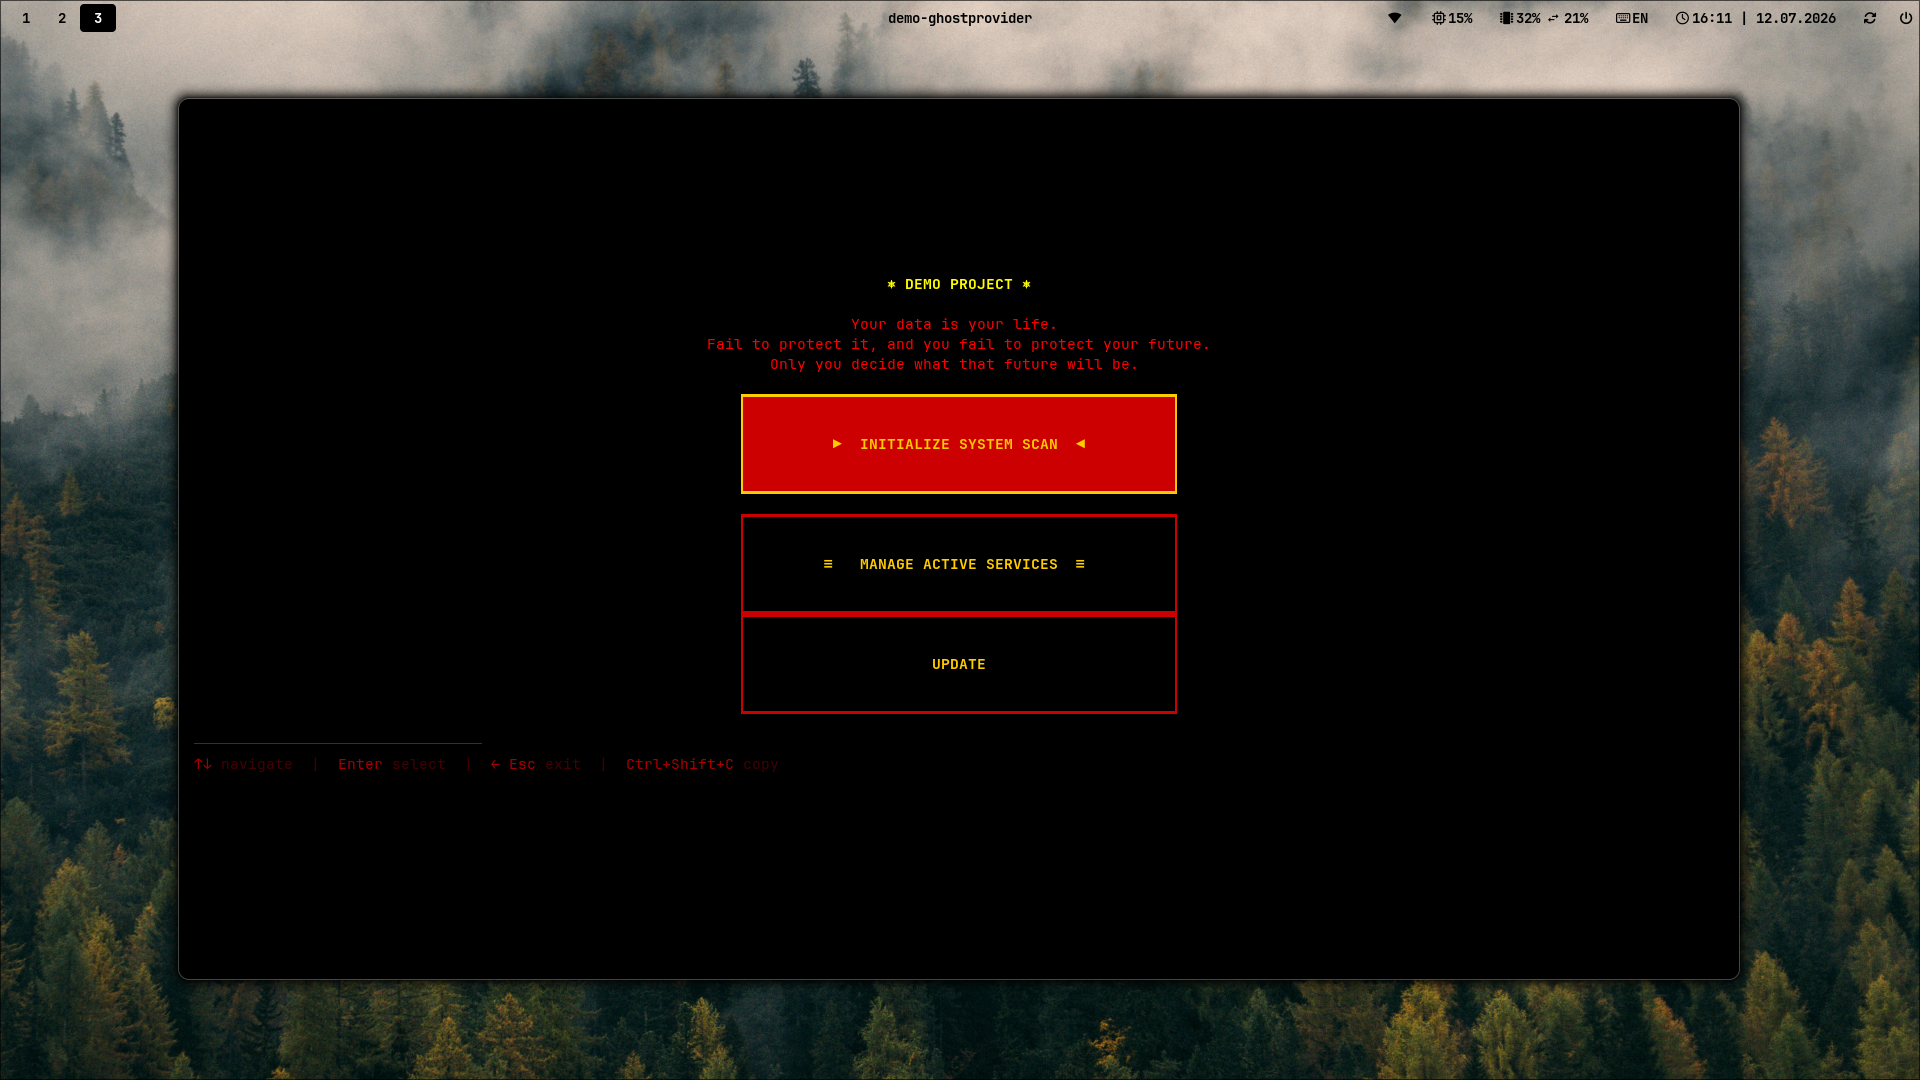
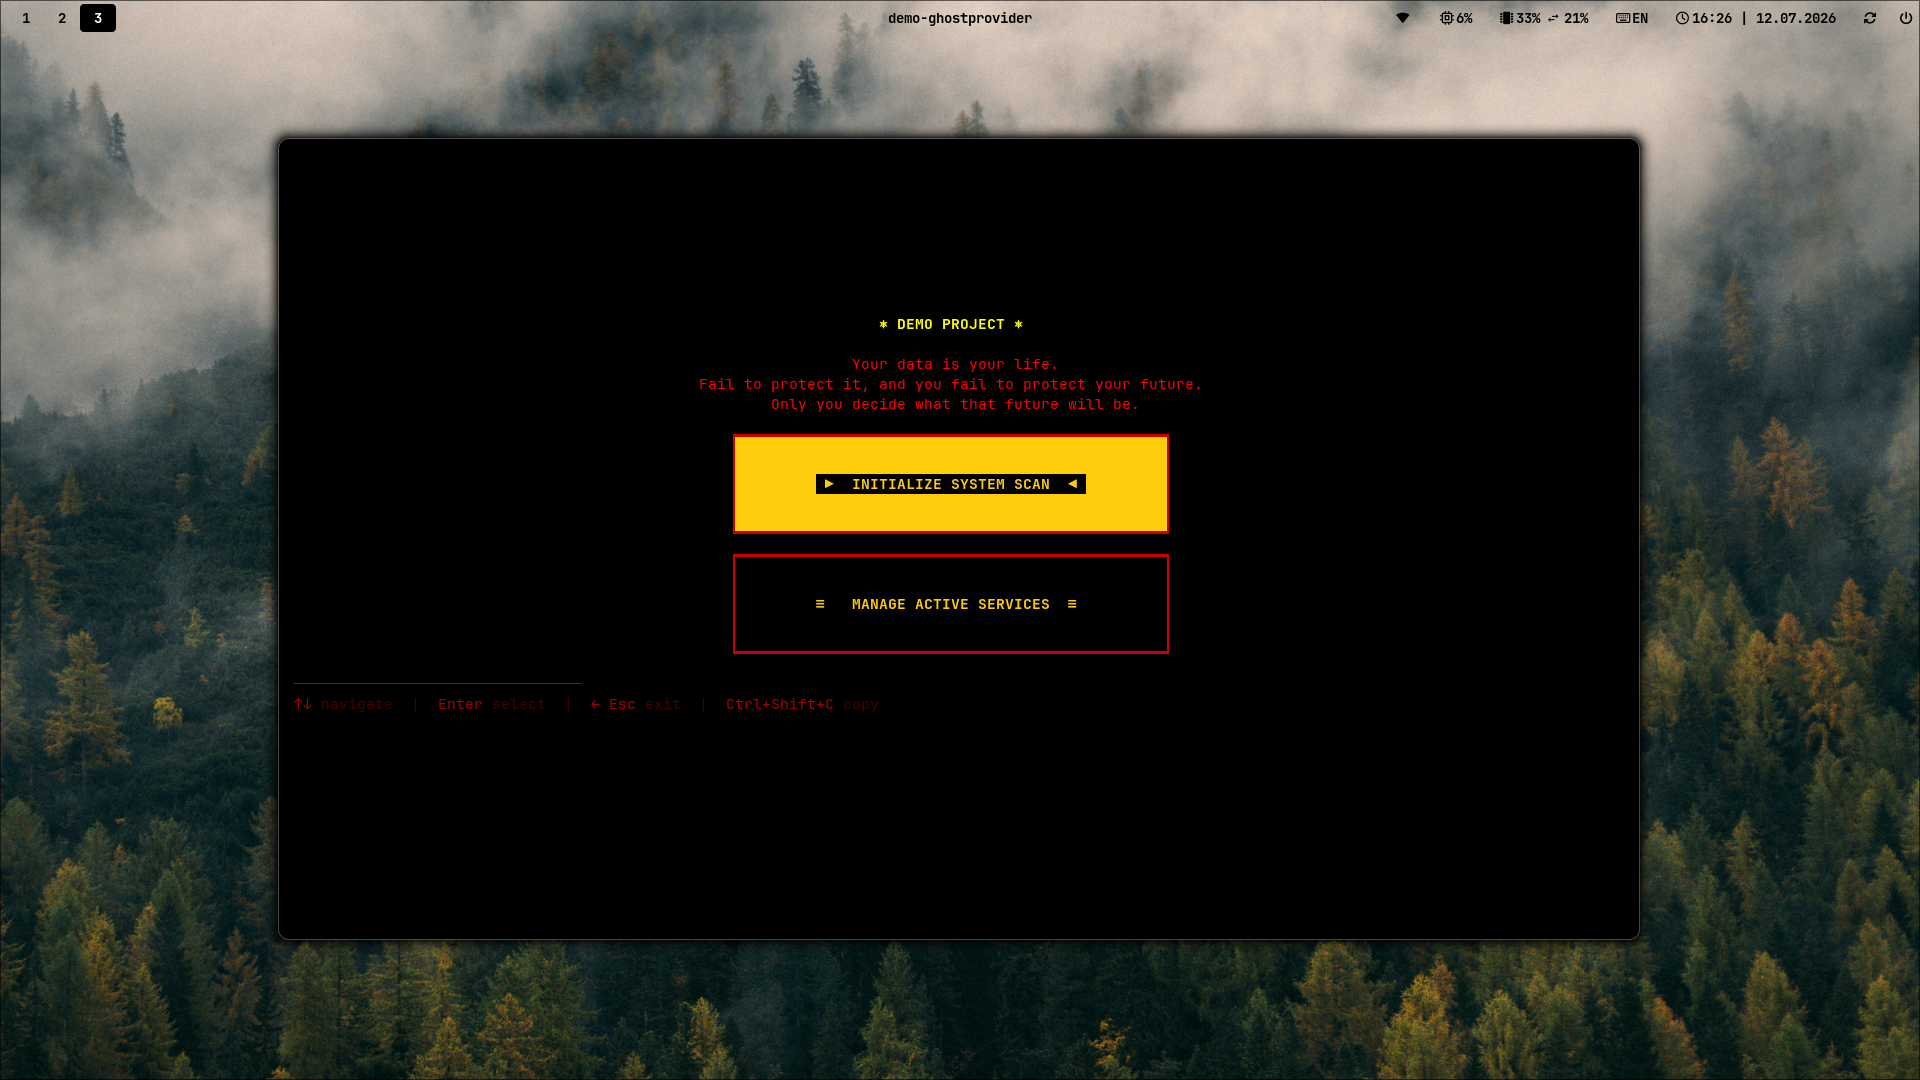
Update screenshot

diff --git a/build/lib/demo_ghostprovider/screens.py b/build/lib/demo_ghostprovider/screens.py
@@ -236,9 +236,6 @@ class MainScreen(Screen):
             Center(
                 Button("☰  MANAGE ACTIVE SERVICES  ☰", id="btn-services", variant="default"),
             ),
-            Center(
-                Button("            UPDATE            ", id="btn-update", variant="default"),
-            ),
             Static(
                 "[dim red]────────────────────────────────[/dim red]\n"
                 "[dim red]↑↓[/dim red] [dim]navigate  |  [/dim]"
@@ -258,8 +255,6 @@ class MainScreen(Screen):
             self.app.push_screen(AnalysisScreen())
         elif event.button.id == "btn-services":
             self.app.push_screen(ServiceListScreen())
-        elif event.button.id == "btn-update":
-            self.app.push_screen(UpdateScreen())
 
     def on_key(self, event) -> None:
         if event.key in ("escape", "left"):
@@ -270,8 +265,6 @@ class MainScreen(Screen):
                 self.app.push_screen(AnalysisScreen())
             elif focused and focused.id == "btn-services":
                 self.app.push_screen(ServiceListScreen())
-            elif focused and focused.id == "btn-update":
-                self.app.push_screen(UpdateScreen())
         elif event.key == "down":
             btns = self.query(Button)
             for i, b in enumerate(btns):
@@ -291,91 +284,6 @@ class MainScreen(Screen):
 
 
 # ── Update Screen ──────────────────────────────────────────────────
-
-def _find_repo_root() -> str | None:
-    """Find the git repo root by walking up from demo_ghostprovider module location."""
-    path = os.path.dirname(os.path.abspath(__file__))
-    while path and path != "/":
-        if os.path.isdir(os.path.join(path, ".git")):
-            return path
-        path = os.path.dirname(path)
-    return None
-
-
-class UpdateScreen(Screen):
-    BINDINGS = [
-        ("escape", "pop_screen"),
-        ("left", "pop_screen"),
-        ("enter", "pop_screen"),
-    ]
-
-    def action_pop_screen(self) -> None:
-        self.app.pop_screen()
-
-    def compose(self) -> ComposeResult:
-        yield MatrixRain(id="matrix-rain")
-
-    def on_mount(self) -> None:
-        rain = self.query_one(MatrixRain)
-        _safe_task(self._run_update(rain))
-
-    async def _run_update(self, rain: MatrixRain) -> None:
-        await rain.typewrite_status("locating repository...", speed=0.04)
-        await asyncio.sleep(0.3)
-
-        repo = await asyncio.get_event_loop().run_in_executor(None, _find_repo_root)
-
-        if not repo:
-            rain.write_fail("Repository not found", detail="ERR")
-            rain.write_fail("Install ghostprovider via git clone + pip install -e .", detail="")
-            rain.set_status("Enter — return")
-            return
-
-        await rain.typewrite_status(f"repository found at {repo}", speed=0.02)
-        await asyncio.sleep(0.2)
-        await rain.typewrite_status("fetching updates...", speed=0.04)
-        rain.set_progress(0, 3)
-
-        loop = asyncio.get_event_loop()
-
-        try:
-            rain.set_progress(1, 3)
-            result = await loop.run_in_executor(
-                None, lambda: subprocess.run(
-                    ["git", "pull"], cwd=repo, capture_output=True, text=True, timeout=30
-                )
-            )
-            rain.set_progress(2, 3)
-
-            if result.returncode != 0:
-                err = result.stderr.strip() or "git pull failed"
-                rain.write_fail(err[:200], detail="ERR")
-                rain.set_status("Enter — return")
-                return
-
-            output = result.stdout.strip()
-            if not output or "Already up to date" in output:
-                await rain.typewrite_ok("Already up to date", addr="DONE", speed=0.02)
-                rain.set_status("Enter — return")
-                return
-
-            for line in output.splitlines():
-                line = line.strip()
-                if line:
-                    await rain.typewrite_ok(line[:120], addr="", speed=0.01)
-
-            await rain.typewrite_ok("Update complete", addr="DONE", speed=0.02)
-            rain.set_progress(3, 3)
-            await asyncio.sleep(0.5)
-            rain.set_status("Updates applied — restart recommended (Esc to return)")
-
-        except subprocess.TimeoutExpired:
-            rain.write_fail("git pull timed out", detail="ERR")
-            rain.set_status("Enter — return")
-        except Exception as e:
-            rain.write_fail(str(e), detail="ERR")
-            rain.set_status("Enter — return")
-
 
 # ── Analysis Screen (Matrix rain) ─────────────────────────────────────
 

diff --git a/build/lib/demo_ghostprovider/services.py b/build/lib/demo_ghostprovider/services.py
@@ -132,8 +132,17 @@ def _get_unit_ports(unit_name: str) -> list[int]:
 
 
 def list_services(all_services: bool = False) -> list[ServiceInfo]:
-    """List ghostprovider-managed systemd services."""
+    """List demo-ghostprovider-managed systemd services.
+
+    Only shows services that are tracked in the state file (i.e., deployed
+    by this demo-ghostprovider instance, not the full ghostprovider).
+    """
+    from demo_ghostprovider.state import load as _load_state
     services: list[ServiceInfo] = []
+
+    # Load state to know which services belong to this demo instance
+    state = _load_state()
+    demo_services = {k for k in state.keys() if k != "version"}
 
     try:
         # Always list all ghost-prefixed services (running or stopped)
@@ -153,6 +162,10 @@ def list_services(all_services: bool = False) -> list[ServiceInfo]:
 
             # Only show ghostprovider-managed services (prefixed with ghost-)
             if not unit_name.startswith("ghost-"):
+                continue
+
+            # Demo version: only show services tracked in this instance's state
+            if unit_name not in demo_services:
                 continue
 
             status = parts[2] if len(parts) > 2 else "unknown"
